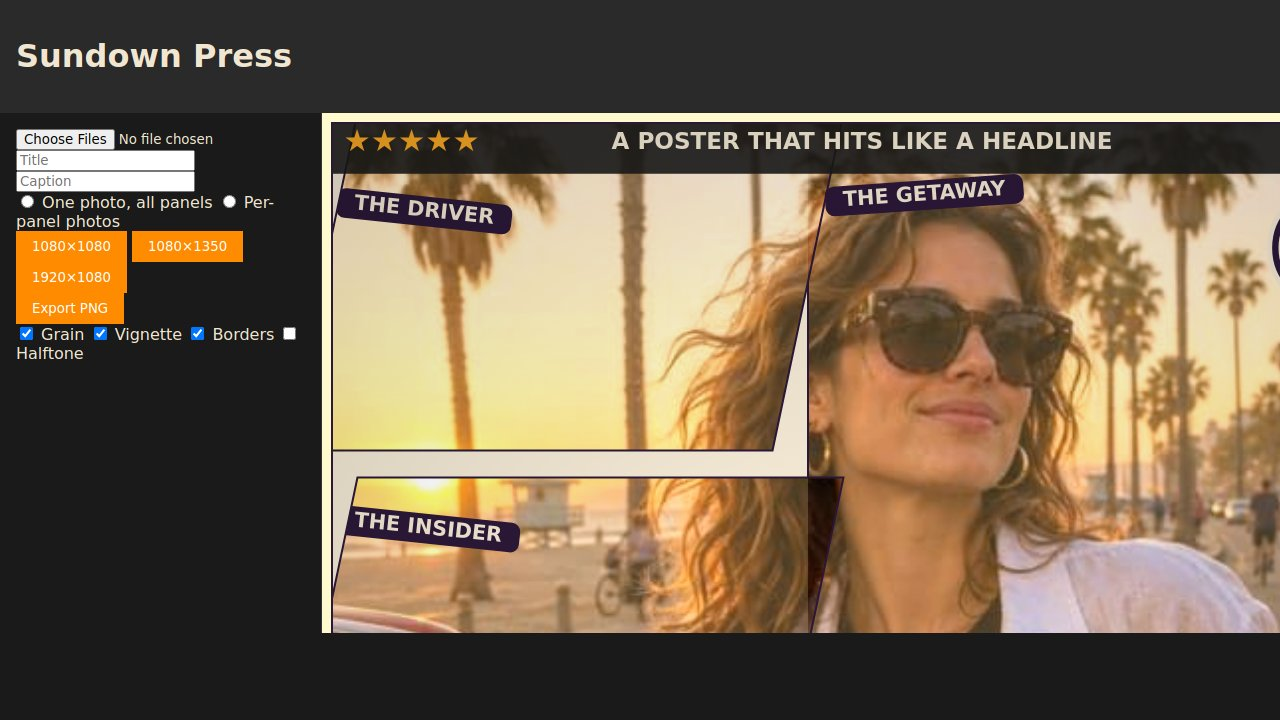
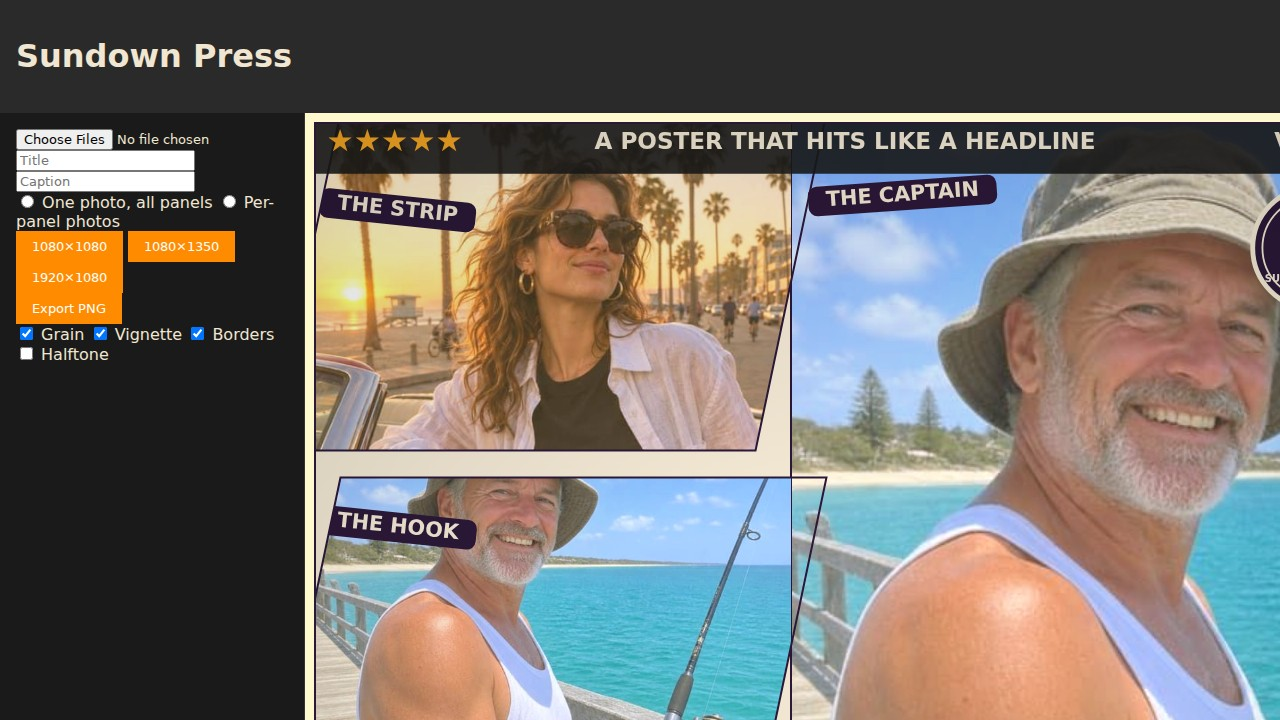
Sundown Press — focal-aware panel framing, content-true tags, real sizes view (cover fix)

diff --git a/app/src/main.js b/app/src/main.js
@@ -1,5 +1,5 @@
 import { drawCover } from './cover.js';
-import { loadPhoto } from './photo-manager.js';
+import { loadPhoto, SAMPLE_FOCALS } from './photo-manager.js';
 import { runShot } from './shots.js';
 import { layouts } from './layout-templates.js';
 
@@ -14,6 +14,7 @@ let state = {
     fillMode: 'span',
     photoAssignments: {}, // panelID: photoObject
     panelGrades: {},
+    panelTags: {},
     title: 'SUNSET HEIST',
     caption: 'A JALLU STORY',
     effects: { grain: true, vignette: true, borders: true, halftone: false }
@@ -21,6 +22,53 @@ let state = {
 
 async function update() {
     const params = new URLSearchParams(window.location.search);
+
+    // Parse shot-scene state
+    state.fillMode = params.get('fill') || state.fillMode;
+    state.caption = params.get('caption') || state.caption;
+    state.panelTags = {};
+    if (params.has('tags')) {
+        const tagPairs = params.get('tags').split(',');
+        for (const pair of tagPairs) {
+            const [panel, text] = pair.split(':');
+            state.panelTags[panel] = decodeURIComponent(text);
+        }
+    }
+
+    if (params.has('assign')) {
+        state.photoAssignments = {};
+        const assignments = params.get('assign').split(',');
+        const focals = {};
+        if (params.has('focals')) {
+            const focalPairs = params.get('focals').split(',');
+            for (const pair of focalPairs) {
+                const [panel, coords] = pair.split(':');
+                const [fx, fy] = coords.split('x');
+                focals[panel] = { x: parseFloat(fx), y: parseFloat(fy) };
+            }
+        }
+
+        for (const pair of assignments) {
+            const [panel, sample] = pair.split(':');
+            // Fetch/load
+            const response = await fetch(`samples/${sample}.jpg`);
+            const blob = await response.blob();
+            const photo = await loadPhoto(new File([blob], `${sample}.jpg`), { focal: focals[panel] || SAMPLE_FOCALS[sample] });
+            state.photoAssignments[panel] = photo;
+        }
+    } else {
+        const photoParam = params.get('photo') || 'pier';
+        const response = await fetch(`samples/${photoParam}.jpg`);
+        const blob = await response.blob();
+        const photo = await loadPhoto(new File([blob], `${photoParam}.jpg`), { focal: SAMPLE_FOCALS[photoParam] });
+        state.photoAssignments['hero'] = photo;
+    }
+
+    if (params.get('shot') === 'sizes') {
+        renderSizesView(params);
+        return;
+    }
+
     if (params.get('shot') === 'cover') {
         const sizeParam = params.get('size');
         if (sizeParam) {
@@ -70,6 +118,53 @@ async function update() {
     await drawCover(canvas, { ...state, title: displayTitle });
 }
 
+async function renderSizesView(params) {
+    document.body.style.display = 'flex';
+    document.body.style.justifyContent = 'center';
+    document.body.style.alignItems = 'center';
+    document.body.style.height = '100vh';
+    document.body.style.margin = '0';
+    document.body.style.background = '#1a1a1a';
+
+    // Hide other stuff.
+    const header = document.querySelector('header');
+    if (header) header.style.display = 'none';
+    const aside = document.querySelector('aside');
+    if (aside) aside.style.display = 'none';
+    canvas.style.display = 'none'; // The preview canvas
+
+    const container = document.createElement('div');
+    container.style.display = 'flex';
+    container.style.gap = '24px';
+    document.body.appendChild(container);
+
+    const sizes = [{w: 1080, h: 1080, label: '1080 × 1080'}, {w: 1080, h: 1350, label: '1080 × 1350'}];
+    const displayTitle = state.title.trim() !== '' ? state.title : state.caption;
+
+    for (const size of sizes) {
+        const wrapper = document.createElement('div');
+        wrapper.style.display = 'flex';
+        wrapper.style.flexDirection = 'column';
+        wrapper.style.alignItems = 'center';
+        container.appendChild(wrapper);
+
+        const c = document.createElement('canvas');
+        c.width = size.w;
+        c.height = size.h;
+        c.style.height = '620px';
+        c.style.width = 'auto';
+        wrapper.appendChild(c);
+
+        const label = document.createElement('div');
+        label.innerText = size.label;
+        label.style.color = '#f0e6d2';
+        label.style.marginTop = '10px';
+        wrapper.appendChild(label);
+
+        await drawCover(c, { ...state, title: displayTitle });
+    }
+}
+
 fileInput.addEventListener('change', async (e) => {
     for (const file of e.target.files) {
         const photo = await loadPhoto(file);
@@ -108,12 +203,9 @@ document.querySelectorAll('input[name="fill"]').forEach(radio => {
 
 const params = new URLSearchParams(window.location.search);
 if (params.has('shot')) {
-    runShot(params.get('shot'), params, async (url, cap) => {
-        const response = await fetch(url);
-        const blob = await response.blob();
-        const photo = await loadPhoto(new File([blob], 'photo.jpg', { type: 'image/jpeg' }));
-        state.photoAssignments['hero'] = photo;
-        state.caption = cap;
-        update();
+    runShot(params.get('shot'), params, async (q) => {
+        // The load callback just triggers re-render,
+        // as parsing logic is now inside update().
+        await update();
     });
 }

diff --git a/app/src/cover.js b/app/src/cover.js
@@ -5,6 +5,19 @@ import { layouts } from './layout-templates.js';
 import { photos } from './photo-manager.js';
 import { grades } from './grades.js';
 
+function fitRect(imgW, imgH, tx, ty, tw, th, focal) {
+    const scale = Math.max(tw / imgW, th / imgH);
+    const pw = imgW * scale;
+    const ph = imgH * scale;
+    // position so the focal point lands at the target rect's centre
+    let px = tx + tw / 2 - focal.x * pw;
+    let py = ty + th / 2 - focal.y * ph;
+    // each clamped so the image still covers the rect
+    px = Math.max(Math.min(px, tx), tx + tw - pw);
+    py = Math.max(Math.min(py, ty), ty + th - ph);
+    return { px, py, pw, ph };
+}
+
 function getPanelPath(panel, w, h) {
     const path = new Path2D();
     const x = panel.x * w;
@@ -163,12 +176,19 @@ function drawBarcode(ctx, w, h) {
     ctx.restore();
 }
 
-function drawPanelTag(ctx, panel, w, h) {
+function drawPanelTag(ctx, panel, index, w, h, data) {
     ctx.save();
     const path = getPanelPath(panel, w, h);
     ctx.clip(path);
 
-    const role = roleMap[panel.id] || `SCENE ${(panel.id || '').toUpperCase()}` || 'SCENE';
+    let role = 'SCENE';
+    if (data.panelTags && data.panelTags[panel.id]) {
+        role = data.panelTags[panel.id];
+    } else if (data.fillMode === 'span') {
+        role = `SCENE ${index + 1}`;
+    } else {
+        role = roleMap[panel.id] || `SCENE ${(panel.id || '').toUpperCase()}` || 'SCENE';
+    }
     const skewAngle = (panel.skew || -4) * Math.PI / 180;
     const px = panel.x * w + w * 0.015;
     // Never let a tag sit underneath the top furniture strip.
@@ -225,11 +245,30 @@ export async function drawCover(canvas, data) {
             spanImg = new Image();
             spanImg.src = spanPhoto.url;
             await new Promise(r => spanImg.onload = r);
+
+            // Anchor span photo focal to the CENTRE OF THE LARGEST-AREA PANEL
+            let largestPanel = currentLayout.panels[0];
+            let maxArea = 0;
+            for (const panel of currentLayout.panels) {
+                const area = panel.w * panel.h;
+                if (area > maxArea) {
+                    maxArea = area;
+                    largestPanel = panel;
+                }
+            }
+            const anchorX = largestPanel.x + largestPanel.w / 2;
+            const anchorY = largestPanel.y + largestPanel.h / 2;
+
+            const focal = spanPhoto.focal || { x: 0.5, y: 0.5 };
             const scale = Math.max(w / spanImg.width, h / spanImg.height);
             spanPw = spanImg.width * scale;
             spanPh = spanImg.height * scale;
-            spanPx = (w - spanPw) / 2;
-            spanPy = (h - spanPh) / 2;
+
+            spanPx = (anchorX * w) - (focal.x * spanPw);
+            spanPy = (anchorY * h) - (focal.y * spanPh);
+            // Clamp
+            spanPx = Math.max(Math.min(spanPx, 0), w - spanPw);
+            spanPy = Math.max(Math.min(spanPy, 0), h - spanPh);
         }
     }
 
@@ -259,11 +298,8 @@ export async function drawCover(canvas, data) {
                 const targetX = panel.x * w;
                 const targetY = panel.y * h;
 
-                const scale = Math.max(targetW / img.width, targetH / img.height);
-                const pw = img.width * scale;
-                const ph = img.height * scale;
-
-                ctx.drawImage(img, targetX + (targetW - pw) / 2, targetY + (targetH - ph) / 2, pw, ph);
+                const { px, py, pw, ph } = fitRect(img.width, img.height, targetX, targetY, targetW, targetH, photo.focal || { x: 0.5, y: 0.5 });
+                ctx.drawImage(img, px, py, pw, ph);
             } else {
                 ctx.fillStyle = '#333';
                 ctx.fillRect(panel.x * w, panel.y * h, panel.w * w, panel.h * h);
@@ -301,7 +337,7 @@ export async function drawCover(canvas, data) {
 
     // 3e. Per-panel caption tags (after the top strip so they stay readable)
     for (let i = 0; i < currentLayout.panels.length; i++) {
-        drawPanelTag(ctx, currentLayout.panels[i], w, h);
+        drawPanelTag(ctx, currentLayout.panels[i], i, w, h, data);
     }
 
     // 3d. Seal

diff --git a/app/src/photo-manager.js b/app/src/photo-manager.js
@@ -4,7 +4,9 @@ const MAX_DIM = 2048;
 
 export const photos = new Map();
 
-export async function loadPhoto(file) {
+export const SAMPLE_FOCALS = { pier: { x: 0.35, y: 0.24 }, boulevard: { x: 0.55, y: 0.18 } };
+
+export async function loadPhoto(file, opts = {}) {
     const url = URL.createObjectURL(file);
     const img = await loadImage(url);
     const canvas = document.createElement('canvas');
@@ -27,7 +29,7 @@ export async function loadPhoto(file) {
     URL.revokeObjectURL(url);
 
     const id = crypto.randomUUID();
-    const photo = { id, url: finalUrl, width: w, height: h, zoom: 1, pan: { x: 0, y: 0 } };
+    const photo = { id, url: finalUrl, width: w, height: h, zoom: 1, pan: { x: 0, y: 0 }, focal: opts.focal || { x: 0.5, y: 0.5 } };
     photos.set(id, photo);
     return photo;
 }
@@ -36,7 +38,7 @@ export async function registerBuiltIn(id, path) {
     const response = await fetch(path);
     const blob = await response.blob();
     const file = new File([blob], id, { type: 'image/jpeg' });
-    return loadPhoto(file); // This will assign a new ID. Need to handle registration better.
+    return loadPhoto(file, { focal: SAMPLE_FOCALS[id] || { x: 0.5, y: 0.5 } });
 }
 
 // Actually, I should just map name to photo object.
@@ -47,8 +49,8 @@ export async function initRegistry() {
     const boulevard = await fetch('samples/boulevard.jpg').then(r => r.blob());
 
     // For simplicity, I will implement a simpler loader here
-    registry.set('pier', await loadPhoto(new File([pier], 'pier.jpg')));
-    registry.set('boulevard', await loadPhoto(new File([boulevard], 'boulevard.jpg')));
+    registry.set('pier', await loadPhoto(new File([pier], 'pier.jpg'), { focal: SAMPLE_FOCALS.pier }));
+    registry.set('boulevard', await loadPhoto(new File([boulevard], 'boulevard.jpg'), { focal: SAMPLE_FOCALS.boulevard }));
 }
 
 function loadImage(url) {

diff --git a/app/src/lettering.js b/app/src/lettering.js
@@ -69,12 +69,19 @@ export function drawLettering(ctx, canvas, title, caption, band) {
 
     // 3. Bottom Credits Line (3b): one line of tiny letterspaced caps at the band's very bottom edge
     ctx.save();
-    const credFontSize = Math.max(h * 0.014, bandH * 0.1);
+    let credFontSize = Math.max(h * 0.014, bandH * 0.1);
     ctx.font = `700 ${credFontSize}px 'Archivo', sans-serif`;
-    ctx.textAlign = 'center';
+    const credText = 'A SUNDOWN PICTURES PRODUCTION · STARRING YOU · SHOT ON YOUR OWN CAMERA';
+    let credWidth = ctx.measureText(credText).width;
+
+    if (credWidth > bandW * 0.72) {
+        credFontSize *= Math.max(0.6, (bandW * 0.72) / credWidth);
+        ctx.font = `700 ${credFontSize}px 'Archivo', sans-serif`;
+    }
+
+    ctx.textAlign = 'left';
     ctx.textBaseline = 'bottom';
     ctx.fillStyle = '#f0e6d2';
-    const credText = 'A SUNDOWN PICTURES PRODUCTION · STARRING YOU · SHOT ON YOUR OWN CAMERA';
-    ctx.fillText(credText, bandX + bandW / 2, bandY + bandH - bandH * 0.04);
+    ctx.fillText(credText, x, bandY + bandH - bandH * 0.04);
     ctx.restore();
 }

diff --git a/app/src/shots.js b/app/src/shots.js
@@ -1,7 +1,7 @@
 // Fixed scenes for screenshots: ?shot=editor shows the page with a sample photo; ?shot=cover shows the cover alone.
 // `photo` picks the sample (samples/<photo>.jpg) and `caption` the words. window.__shotReady is set once painted.
 export async function runShot(shot, query, load) {
-  if (shot === 'cover') {
+  if (shot === 'cover' || shot === 'sizes') {
     document.body.classList.add('shot-cover');
     // Prefer explicit px from the size param: the headless layout viewport can be
     // shorter than the capture, so 100vh clips the canvas and leaves a black strip.
@@ -52,7 +52,7 @@ export async function runShot(shot, query, load) {
         preview.style.background = 'none';
     }
   }
-  await load(`samples/${query.get('photo') ?? 'pier'}.jpg`, query.get('caption') ?? 'Sunset Heist');
+  await load(query);
   await document.fonts.load('900 100px Anton');
   await document.fonts.ready;
   requestAnimationFrame(() => requestAnimationFrame(() => { window.__shotReady = true; }));
